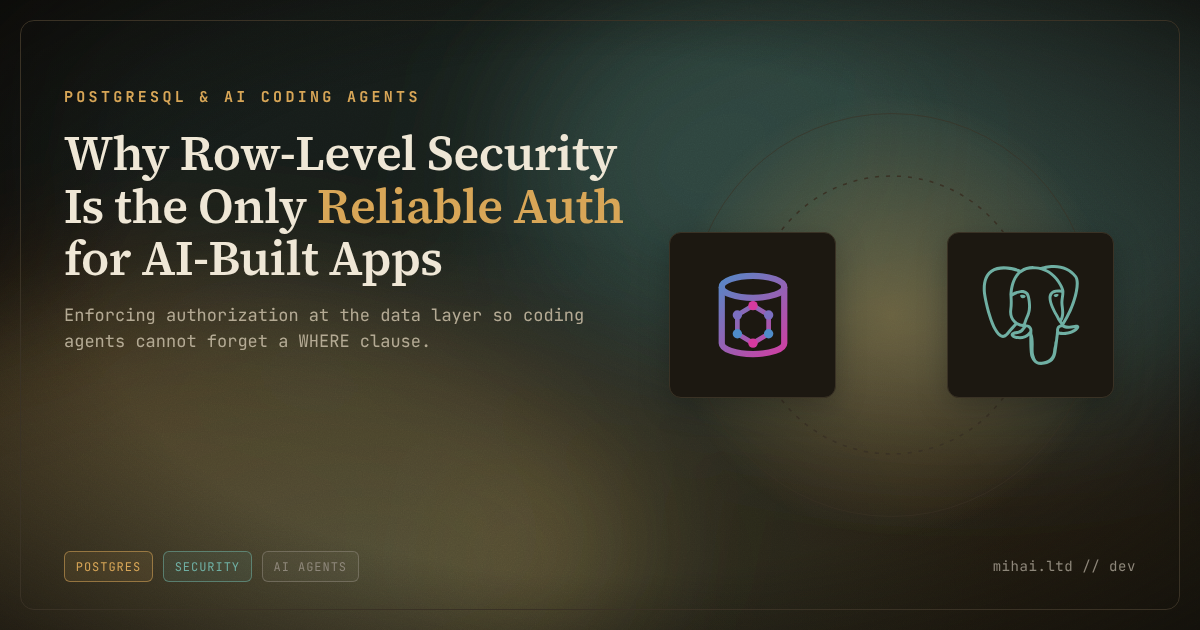
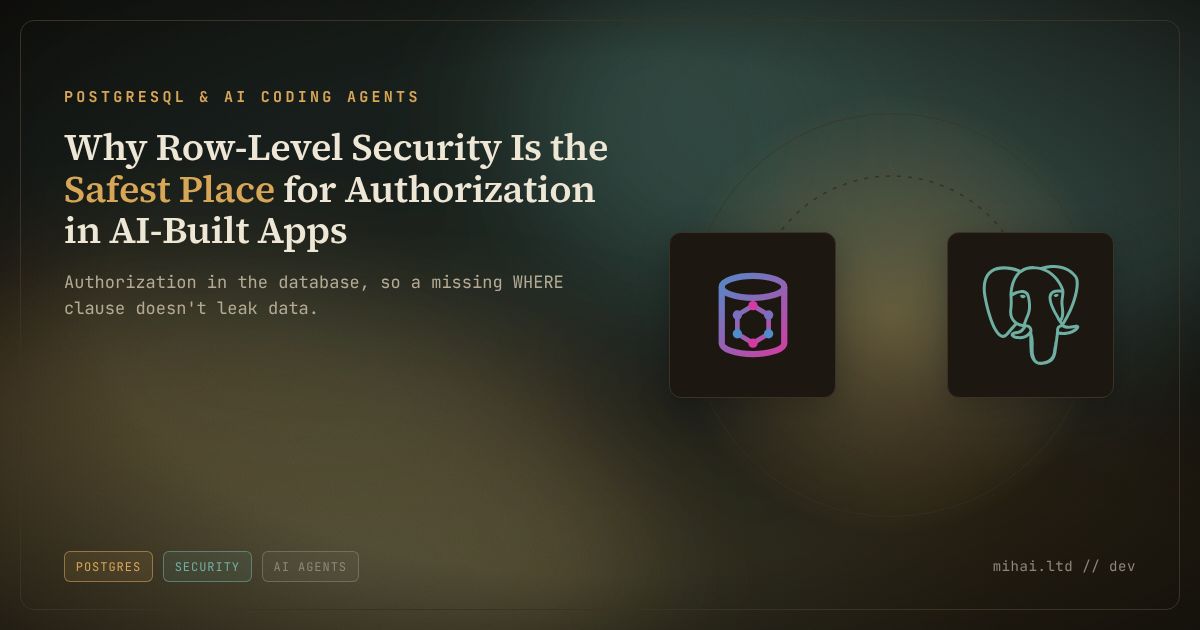
content(blog): editorial pass on graphpg, type-safety and RLS articles; retitle RLS article

Changed region(s): [[0.0308, 0.2111, 0.5242, 0.573]]

diff --git a/content/blog/building-graphpg-graphql-and-rest-from-postgres.md b/content/blog/building-graphpg-graphql-and-rest-from-postgres.md
@@ -9,7 +9,7 @@ cover_image: "/images/covers/building-graphpg-graphql-and-rest-from-postgres.png
 
 # Why GraphQL and REST Should Share One Engine: What I Learned Building graphpg
 
-_GraphQL or REST is the wrong question for most teams. You end up running both, and what matters is whether they come from one place or drift apart._
+_GraphQL or REST is the wrong question for many teams. You often end up running both, and what matters is whether they come from one place or drift apart._
 
 I build a lot of applications on PostgreSQL, and for years I have reached for tools that read the database and serve an API from it, instead of writing a data layer by hand. The largest schema I work with is a FHIR R5 data model (FHIR is the HL7 standard for exchanging healthcare records): 177 tables, composite types, JSON views and recursive functions. That schema is where [graphpg](https://mihailtd.github.io/graphpg/) started.
 
@@ -21,7 +21,7 @@ We built graphpg in-house as an open-source Rust engine (and adopted it on our [
 
 None of the ideas below are mine. Each comes from a tool I used and still respect.
 
-**[PostGraphile](https://postgraphile.org): the database is the schema.** Tables, foreign keys, functions and comments become a GraphQL schema with no resolver code. Authorization stays in PostgreSQL, through Row-Level Security (RLS, policies that filter which rows a role can see) driven by settings from the request. Version 5's Grafast planner made it fast as well as elegant. graphpg's integration tests still use a forum schema and queries adapted from PostGraphile's own test suite (MIT licensed, credited in the repository). "Does it answer like PostGraphile does?" was the first bar I wanted to clear.
+**[PostGraphile](https://postgraphile.org): the database is the schema.** Tables, foreign keys, functions and comments become a GraphQL schema with no resolver code. Authorization stays in PostgreSQL, through Row-Level Security (RLS, policies that filter which rows a role can see) driven by settings from the request. Version 5's Grafast planner made it fast as well as elegant. graphpg's integration tests still use a forum schema and queries adapted from PostGraphile's own test suite. "Does it answer like PostGraphile does?" was the first bar I wanted to clear.
 
 **[Hasura](https://hasura.io): the operational pieces.** Event triggers (webhooks fired when rows change), allow-lists of operations, depth and node limits, a console. Hasura showed that a generated API needs production features around it, not only a schema.
 
@@ -35,17 +35,17 @@ None of the ideas below are mine. Each comes from a tool I used and still respec
 
 ### 1. One engine behind both APIs
 
-GraphQL and REST in graphpg are two front ends to the same operation plan. A REST call such as `GET /rest/posts?filter[status][eq]=PUBLISHED&include=tags` and the equivalent GraphQL query become the same plan, so they share filters, ordering, keyset pagination, nested writes, safety limits, authorization and error codes. A filter operator added for one exists in the other the same day.
+GraphQL and REST in graphpg are two front ends to the same operation plan. A REST call such as `GET /rest/posts?filter[status][eq]=PUBLISHED&include=tags` and the equivalent GraphQL query become the same plan, so they share filters, ordering, keyset pagination, nested writes, safety limits, authorization and error codes. Add a filter operator and both APIs get it.
 
-I keep a [parity document](https://mihailtd.github.io/graphpg/docs/graphql-openapi-parity) of what each API knows about the database, and treat a gap as a bug. Put two separate tools in front of one database, say PostGraphile for GraphQL and PostgREST for REST, and they drift on exactly these details. One supports a filter the other lacks, an error comes back in a different shape, a limit holds on one side only.
+The two APIs aren't identical, and shouldn't be: some things only make sense in one of them. The [parity document](https://mihailtd.github.io/graphpg/docs/graphql-openapi-parity) lists where they differ and why. Put two separate tools in front of one database, say PostGraphile for GraphQL and PostgREST for REST, and the differences stop being choices. One supports a filter the other lacks, an error comes back in a different shape, a limit holds on one side only.
 
 ### 2. Every request is one SQL statement
 
 A nested GraphQL selection compiles to lateral joins and JSON aggregation, so a query for twenty posts with their authors and comments is one round trip, never one query per post (the N+1 problem). Connections page by keyset (`WHERE (created_at, id) < (…)`), an index seek on every page. Limits on page size, depth and cost are checked on the plan before any SQL runs.
 
-I measured it against PostgREST 16.4 on the same PostgreSQL 18.6 database, with the k6 scripts in [`benchmarks/rest`](https://github.com/mihailtd/graphpg/tree/main/benchmarks/rest) (one run, one machine, 2026-10-07). Reads ran at 1.4 to 3 times the throughput. Deep `offset` pagination came out about even, bulk updates by filter 2% behind, and single-row writes 1.1 to 1.4 times ahead:
+Against PostgREST on the same database ([benchmark scripts](https://github.com/mihailtd/graphpg/tree/main/benchmarks/rest)), reads ran at 1.4 to 3 times the throughput. Deep `offset` pagination came out about even, bulk updates by filter 2% behind, and single-row writes 1.1 to 1.4 times ahead:
 
-![Requests per second, graphpg 1.0.1 against PostgREST 16.4 on PostgreSQL 18.6: single row by key 74,031 against 24,606; keyset pagination 35,040 against 22,077; list of 20 rows 33,426 against 21,282; filtered list 32,501 against 19,894; 20 posts with author and comments 17,227 against 11,995 | wide](/images/blog/benchmark-throughput.png)
+![Requests per second, graphpg against PostgREST: single row by key 74,031 against 24,606; keyset pagination 35,040 against 22,077; list of 20 rows 33,426 against 21,282; filtered list 32,501 against 19,894; 20 posts with author and comments 17,227 against 11,995 | wide](/images/blog/benchmark-throughput.png)
 
 Treat that as one data point, not a ranking. Throughput depends far more on your schema, indexes and hardware than on the server, so run the benchmark on yours.
 
@@ -53,7 +53,7 @@ Treat that as one data point, not a ranking. Throughput depends far more on your
 
 This is the decision people question most. PostGraphile has a plugin system; Hasura has actions and remote schemas. graphpg has neither, on purpose ([decision record](https://mihailtd.github.io/graphpg/docs/extending)).
 
-A resolver running inside the server is not part of the statement: it adds a round trip per row unless it batches, it runs outside the transaction and outside RLS, and the limits estimated on the plan no longer bound the request. A plugin runtime is also a product of its own, with an API to keep stable through every upgrade.
+A resolver running inside the server sits outside the statement. It adds a round trip per row unless it batches, it runs outside the transaction and outside RLS, and the limits checked on the plan no longer cover the request. A plugin runtime is also a product of its own, with an API to keep stable through every upgrade.
 
 Behavior goes where it keeps those guarantees instead:
 
@@ -72,7 +72,7 @@ This is the piece that matters most for type safety, which I wrote about separat
 
 ### 5. A single binary, close to PostgreSQL's newest features
 
-graphpg ships as a static binary on a distroless image (about 27 MB, no shell, non-root, signed with Sigstore). It reads PostgreSQL 17 and 18 features into the schema without hand-written SQL: temporal keys (`WITHOUT OVERLAPS`), `RETURNING OLD`, `JSON_TABLE` views, `NOT ENFORCED` constraints.
+graphpg ships as a single static binary in a small container image with no shell. It reads PostgreSQL 17 and 18 features into the schema without hand-written SQL: temporal keys (`WITHOUT OVERLAPS`), `RETURNING OLD`, `JSON_TABLE` views, `NOT ENFORCED` constraints.
 
 ---
 
@@ -84,29 +84,29 @@ The GraphQL-or-REST debate assumes you pick one. In the projects I have worked o
 
 **REST is better at the edges of the system.** HTTP caching with `ETag`s, a `curl` command in a runbook, webhooks, CSV and NDJSON exports, partners who expect plain HTTP, services written in languages with weak GraphQL tooling. And now AI agents: many agent frameworks build their tools directly from an OpenAPI document, and a REST call with typed parameters maps neatly onto a tool call.
 
-The problem is never having both. It is having two implementations of the same rules: a GraphQL server with one idea of what "published" means and a REST layer with another, or a field hidden from one API and readable through the other. When both APIs come from one plan, coexisting is cheap. You get the GraphQL schema for the app and the OpenAPI document for everything else, and both answer to the same constraints and policies.
+Running both is fine. Running two implementations of the same rules is what hurts: a GraphQL server with one idea of what "published" means and a REST layer with another, or a field hidden from one API and readable through the other. When both APIs come from one plan, coexisting is cheap. You get the GraphQL schema for the app and the OpenAPI document for everything else, and both answer to the same constraints and policies.
 
 ---
 
 ## How I built it
 
-graphpg is about 55,000 lines of Rust, with about 47,000 lines of integration tests (575 test functions) that run against a real PostgreSQL 18. Every documented behavior has a test, which matters more than usual for a tool that generates an API from someone else's schema.
+Close to half of graphpg's code is integration tests that run against a real PostgreSQL. That matters more than usual for a tool that generates an API from someone else's schema.
 
-I built most of it with AI coding agents: 78 of the 97 commits in the public history were co-authored with Claude. That only worked because of the same discipline the tool itself encourages. The tests define what "done" means, the compiler rejects most mistakes before they run, and every change is small enough to review. When the agents got something wrong, a failing test caught it in the same session in most cases, not me a week later.
+I wrote most of it with AI coding agents. That only worked because of the same discipline the tool itself encourages. The tests define what "done" means, the compiler rejects most mistakes before they run, and every change is small enough to review. When the agents got something wrong, a failing test caught it in the same session in most cases, not me a week later.
 
-The FHIR schema did the exploratory testing. A crawler and a fuzzer (a tool that sends malformed inputs) generated requests against everything the 177-table schema exposes, and found real bugs: authorization claims, concurrent schema changes, failover between replicas. Those fixes shipped in 1.1.0, the first published release and the start of a stable API under semantic versioning.
+The FHIR schema did the exploratory testing. A crawler and a fuzzer sent requests at everything the 177-table schema exposes and found real bugs, in claim handling, concurrent schema changes and failover between replicas. Those fixes went into the first stable release.
 
 ---
 
 ## Where graphpg fits, and where it does not
 
-graphpg fits when you want a single high-performance service you configure rather than program, your authorization already lives in PostgreSQL (roles, grants, RLS), and you want GraphQL and REST to agree because both compile from one plan. It also fits distributed architectures: you can join remote databases and Parquet files through [foreign data wrappers](https://mihailtd.github.io/graphpg/docs/foreign-data), or compose graphpg as a subgraph with other services at the gateway using [Apollo Federation](https://mihailtd.github.io/graphpg/docs/federation-and-rbac).
+graphpg fits when you want one service you configure rather than program, your authorization already lives in PostgreSQL (roles, grants, RLS), and you want GraphQL and REST to agree because both compile from one plan. It also fits distributed architectures: you can join remote databases and Parquet files through [foreign data wrappers](https://mihailtd.github.io/graphpg/docs/foreign-data), or compose graphpg as a subgraph with other services at the gateway using [Apollo Federation](https://mihailtd.github.io/graphpg/docs/federation-and-rbac).
 
 Something else fits better when:
 
-- **You need a graphical admin console** to design tables and configure metadata via point-and-click tools: Hasura Console or Supabase Studio. graphpg is strictly code-first and declarative: schema changes go through SQL migrations, and API behavior is configured in version-controlled `graphpg.yaml` (with embedded GraphiQL and Scalar reference UIs for interactive exploration).
-- **You want to rewrite schema generation using in-process custom plugins** (running arbitrary Node.js or Python code inside the server's resolver loop): PostGraphile. graphpg keeps strict single-statement guarantees by moving custom logic into SQL functions, event triggers, or separate microservices composed at the gateway.
-- **You need cursor-based event streaming** across row audit logs rather than live queries: Hasura streaming. graphpg focuses on live query subscriptions (delivering the latest result over WebSocket, SSE, or multipart when data changes) and transaction outbox event triggers for webhook delivery.
+- **You want an admin console** to design tables and metadata by clicking: Hasura Console or Supabase Studio. In graphpg, schema changes are SQL migrations and API settings live in `graphpg.yaml`.
+- **You want plugins that change how the schema is generated**: PostGraphile. graphpg moves custom logic into SQL functions, event triggers or separate services, to keep one statement per request.
+- **You need to stream every change as an event**: Hasura streaming subscriptions. graphpg's subscriptions send the latest result when data changes, and its event triggers deliver webhooks.
 
 The [comparison page](https://mihailtd.github.io/graphpg/docs/comparison) on the graphpg documentation website lists each feature in detail, including where the other tools are broader.
 
@@ -114,9 +114,9 @@ The [comparison page](https://mihailtd.github.io/graphpg/docs/comparison) on the
 
 ## Key takeaways
 
-- **Most teams end up running GraphQL and REST, and two implementations of the same rules drift.** Solution: generate both from one plan, so filters, limits, errors and authorization stay identical.
+- **Many teams end up running GraphQL and REST, and two implementations of the same rules drift apart.** Solution: generate both from one plan, so they share filters, limits, errors and authorization.
 - **A generated API is only as fast as the round trips it makes.** Solution: compile each request into one SQL statement with lateral joins and keyset pagination, and check limits on the plan before running it.
 - **Plugins and custom resolvers break the guarantees that make a generated API safe.** Solution: put behavior in SQL functions, constraints, policies and event triggers, and compose anything else at the gateway.
 - **An API contract that is not checked in CI will drift.** Solution: commit the SDL and OpenAPI document, fail CI on drift, and refuse to start in production on a mismatched schema.
 
-graphpg is open source under MIT or Apache-2.0. Explore the [official documentation website](https://mihailtd.github.io/graphpg/) for guides on [AI agents](https://mihailtd.github.io/graphpg/docs/ai-agents), [type safety](https://mihailtd.github.io/graphpg/docs/type-safety), and a one-minute Docker quick start. The source code is available on [GitHub](https://github.com/mihailtd/graphpg).
+graphpg is open source under MIT or Apache-2.0. Explore the [official documentation website](https://mihailtd.github.io/graphpg/) for guides on [AI agents](https://mihailtd.github.io/graphpg/docs/ai-agents), [type safety](https://mihailtd.github.io/graphpg/docs/type-safety), and a Docker quick start. The source code is available on [GitHub](https://github.com/mihailtd/graphpg).

diff --git a/content/blog/row-level-security-ai-coding-agents.md b/content/blog/row-level-security-ai-coding-agents.md
@@ -1,17 +1,17 @@
 ---
-title: "Why Row-Level Security Is the Only Reliable Auth for AI-Built Apps"
-description: "Why AI coding agents routinely introduce data leaks in application-layer authorization, and how PostgreSQL Row-Level Security (RLS) turns authorization into an auditable data-layer barrier that no agent query can bypass."
+title: "Why Row-Level Security Is the Safest Place for Authorization in AI-Built Apps"
+description: "Why AI coding agents leave tenant filters out of queries, and how PostgreSQL Row-Level Security (RLS) moves authorization into the database, where one short policy covers every query and is easy to review."
 date: "2026-10-18"
 type: "blog_post"
 tags: ["postgresql", "security", "ai", "graphpg", "architecture"]
 cover_image: "/images/covers/row-level-security-ai-coding-agents.png"
 ---
 
-# Why Row-Level Security Is the Only Reliable Auth for AI-Built Apps
+# Why Row-Level Security Is the Safest Place for Authorization in AI-Built Apps
 
-_How many times has an AI coding agent written a flawless feature, only to leave out the tenant filter in the query?_
+_How many times has an AI coding agent written a feature that works, and left the tenant filter out of the query?_
 
-Ask an AI coding agent to add a new dashboard view or export endpoint. It reads your models, builds an expressive query, wires up the route, writes unit tests, and presents a clean diff. The tests pass and the feature works in development.
+Ask an AI coding agent to add a new dashboard view or export endpoint. It reads your models, writes the query, wires up the route, writes unit tests, and presents a clean diff. The tests pass and the feature works in development.
 
 Then you look closely at the database query:
 
@@ -26,13 +26,13 @@ The agent remembered to filter by status. It forgot to filter by `tenant_id` or 
 
 In a single-tenant development database with ten seed rows, that query behaves properly. In a multi-tenant staging or production cluster, it leaks every customer's medical records to whichever user called the endpoint.
 
-This is not a defect unique to language models; human developers make the same mistake under fatigue or tight deadlines. But coding agents make this error at machine speed across dozens of files. As a codebase expands from five tables to fifty, search recall degrades, and the probability of an agent missing a scoping filter in some obscure query approaches certainty.
+This is not a defect unique to language models; people make the same mistake under deadline. But an agent can repeat it across dozens of files in one session, and as a codebase grows from five tables to fifty, the odds that some query misses the scoping filter keep climbing.
 
-The solution is not prompting the agent to "remember security." The solution is moving the authorization boundary into the database engine itself using PostgreSQL Row-Level Security (RLS).
+Prompting the agent to "remember security" won't fix it. Moving authorization into the database with PostgreSQL Row-Level Security (RLS) will: the filter is applied whether the query asks for it or not.
 
 ---
 
-## The structural flaw of application-layer authorization
+## Why application-layer authorization breaks
 
 Most web applications enforce multi-tenancy and data ownership in the application layer:
 
@@ -40,11 +40,11 @@ Most web applications enforce multi-tenancy and data ownership in the applicatio
 2. The controller passes that context down through services, repositories, or resolvers.
 3. Every individual database query explicitly includes `WHERE tenant_id = context.tenant_id`.
 
-This model is structurally fragile because it requires **flawless discipline across every single read and write**.
+This model is fragile because every read and every write has to get it right.
 
 ![Application-layer authorization requires manual checks across fifty files; database Row-Level Security enforces authorization in one place](/images/blog/rls-vs-app-auth-poster.png)
 
-If an application exposes 80 database queries across its routes, resolvers, background workers, and search endpoints, authorization must succeed 80 times out of 80. A single missed `WHERE` clause in query 47 compromises the entire security posture of the product.
+If an application exposes 80 database queries across its routes, resolvers, background workers, and search endpoints, authorization must succeed 80 times out of 80. One missed `WHERE` clause in query 47 is enough to leak data.
 
 When AI coding agents author software, application-layer authorization breaks down for three specific reasons:
 
@@ -54,7 +54,7 @@ When an agent writes a new feature, it searches the repository for existing patt
 
 ### 2. Happy-path test generation
 
-Agents write tests for the code they just created. If an agent writes a query that lacks tenant scoping, its accompanying test seeds records for one user, queries the endpoint, and asserts that the records returned match what it seeded. The test suite passes with full line coverage while harboring a critical cross-tenant data leak.
+Agents write tests for the code they just created. If an agent writes a query that lacks tenant scoping, its accompanying test seeds records for one user, queries the endpoint, and asserts that the records returned match what it seeded. The tests pass with full line coverage, and the cross-tenant leak ships with them.
 
 ### 3. Imperative complexity vs declarative rules
 
@@ -93,7 +93,7 @@ If an AI coding agent writes an unfiltered query:
 SELECT id, name, department FROM documents;
 ```
 
-PostgreSQL does not execute an unfiltered table scan. It transparently rewrites the execution tree to:
+PostgreSQL adds the policies to the query, so it runs as if you had written:
 
 ```sql
 SELECT id, name, department FROM documents
@@ -101,15 +101,15 @@ WHERE tenant_id = current_setting('app.tenant_id', true)
   AND owner_id = current_setting('request.jwt.claim.sub', true);
 ```
 
-Even if the agent writes `DELETE FROM documents;` without a `WHERE` clause, the database deletes only the rows owned by the current session's subject in the current tenant. The agent cannot leak or destroy another customer's data because the database kernel prevents it.
+Even if the agent writes `DELETE FROM documents;` without a `WHERE` clause, the database deletes only the rows owned by the current session's subject in the current tenant. As long as the application connects as `authenticated`, no query the agent writes can reach another customer's rows.
 
 ---
 
 ## Auditing: one migration vs fifty files
 
-The greatest benefit for teams pairing with AI coding agents is **auditability**.
+For teams working with AI coding agents, the main gain is in review.
 
-When an agent submits a pull request with application-layer authorization, the human reviewer must inspect every changed route, controller, ORM invocation, and SQL builder across twenty files, verifying that:
+When an agent submits a pull request with application-layer authorization, the human reviewer must inspect every changed route, controller, ORM invocation, and SQL builder across every changed file, checking that:
 
 - The tenant context extracted in middleware reached the query.
 - The query builder joined the correct scoping table.
@@ -128,9 +128,9 @@ CREATE POLICY team_access_policy ON medical_records
   );
 ```
 
-The reviewer reads five lines of declarative SQL. If those five lines match your security specification, **every query the agent writes now or six months from now will adhere to that policy**.
+The reviewer reads five lines of SQL. If they match your security specification, **every query the agent writes, now or six months from now, follows that policy**.
 
-Language models also write declarative SQL policies with much higher precision than they maintain across dozens of imperative JavaScript or Python controller guards. Writing a constraint or a policy is a compact, self-contained task with decades of training data and formal relational logic behind it.
+In my experience, models also get a policy right more often than they keep dozens of controller guards consistent. A policy is short and self-contained; the guards are spread across files the agent may never open.
 
 ---
 
@@ -160,11 +160,11 @@ SELECT
   set_config('app.tenant_id', 'tenant-1', true);
 ```
 
-The third argument (`is_local = true`) instructs PostgreSQL to scope these settings strictly to the current transaction. When the transaction commits or rolls back, PostgreSQL discards the settings automatically. Connection pool poisoning is impossible because no session setting leaks into later pooled connections.
+The third argument (`is_local = true`) scopes these settings to the current transaction, and PostgreSQL discards them on commit or rollback. A pooled connection never carries one request's claims into the next.
 
-### Real-world test validation
+### What the tests check
 
-In graphpg's test suite ([`crates/graphpg/tests/rls_auth.rs`](https://github.com/mihailtd/graphpg/blob/main/crates/graphpg/tests/rls_auth.rs)), we verify this exact behavior against a live PostgreSQL 18 instance with two isolated tenants and medical departments:
+In graphpg's test suite ([`crates/graphpg/tests/rls_auth.rs`](https://github.com/mihailtd/graphpg/blob/main/crates/graphpg/tests/rls_auth.rs)), we check this against a real PostgreSQL database with two tenants and two departments:
 
 ```rust
 // A token for Alice in cardiology, tenant-1
@@ -197,20 +197,20 @@ Even though the GraphQL query requested all documents without filters:
 - Evan's cardiology documents in `acme-2` remain hidden.
 - Unauthenticated requests run as `anon` and see only public documents.
 
-The agent authored a query that looked like a security hole, and the database answered with complete tenant isolation.
+The query looked like a security hole, and the database returned only Alice's rows.
 
 ---
 
-## Defensive architecture: RLS plus end-to-end type safety
+## RLS and end-to-end type safety
 
-Row-Level Security solves authorization at the data boundary. In an earlier article, we covered how [End-to-End Type Safety](/blog/end-to-end-type-safety-ai-coding-agents) solves schema drift at the compile-time boundary.
+Row-Level Security covers who can see which rows. In [How End-to-End Type Safety Turns "Change It Everywhere" Into a List Your AI Agent Can Finish](/blog/end-to-end-type-safety-ai-coding-agents) I wrote about the other half: what happens when an agent changes the shape of the data.
 
-When you combine both patterns, you create a dual-barrier architecture for agentic development:
+The two checks catch different mistakes:
 
-1. **Compile-time barrier (Types):** PostgreSQL catalog changes regenerate GraphQL SDL and OpenAPI 3.1 contracts via graphpg. Code generators convert contracts into TypeScript types. If an agent changes a column name or omits a required input, `tsc` fails before the code ever runs.
-2. **Runtime barrier (RLS):** When the agent's code runs, PostgreSQL enforces tenant boundaries, ownership rules, and access control policies directly in the database kernel. If an agent generates an unfiltered query, the database limits the result set to the user's permitted rows.
+1. **Types, at build time.** A schema change regenerates the GraphQL SDL and the OpenAPI document, and from them the TypeScript types. If an agent renames a column or leaves out a required input, `tsc` fails before the code runs.
+2. **Policies, at run time.** When the code runs, PostgreSQL applies the tenant and ownership rules. An unfiltered query returns only the rows the user may see.
 
-Neither barrier requires trust in the model's memory, attention span, or prompt compliance.
+Neither depends on the agent remembering anything.
 
 ---
 
@@ -220,7 +220,7 @@ If you adopt RLS for agent-assisted projects, keep three operational practices i
 
 ### 1. Separate table owners from application roles
 
-PostgreSQL superusers and table owners bypass Row-Level Security by default. Ensure your application connects as an unprivileged login role (such as `authenticator`) that switches to `authenticated` or `anon`. Never run application queries as the database owner or superuser, or apply `ALTER TABLE ... FORCE ROW LEVEL SECURITY` if the owner must connect directly.
+PostgreSQL superusers and table owners bypass Row-Level Security by default. Make sure your application connects as an unprivileged login role (such as `authenticator`) that switches to `authenticated` or `anon`. Never run application queries as the database owner or superuser, or apply `ALTER TABLE ... FORCE ROW LEVEL SECURITY` if the owner must connect directly.
 
 ### 2. Combine PERMISSIVE and RESTRICTIVE policies
 
@@ -236,19 +236,19 @@ CREATE POLICY tenant_barrier ON documents
   USING (tenant_id = current_setting('app.tenant_id', true));
 ```
 
-PostgreSQL requires all `RESTRICTIVE` policies to pass alongside at least one `PERMISSIVE` policy. This prevents an overly broad permission policy from ever leaking records across tenant boundaries.
+A row is visible only when every `RESTRICTIVE` policy passes and at least one `PERMISSIVE` policy does. A permissive rule written too broadly still can't open rows in another tenant.
 
 ### 3. Index your policy columns
 
-Row-Level Security injects policy predicates into every table scan. If your policy checks `tenant_id` and `owner_id`, composite indexes covering `(tenant_id, owner_id)` ensure policy evaluation remains sub-millisecond even on tables with millions of rows.
+Row-Level Security adds the policy conditions to every query on the table. If your policy checks `tenant_id` and `owner_id`, composite indexes covering `(tenant_id, owner_id)` keep the added predicate an index lookup instead of a scan.
 
 ---
 
 ## Key takeaways
 
-- **Application-layer authorization is too fragile for AI coding agents.** Agents authoring dozens of queries will eventually miss a scoping filter or spread an unvalidated input.
-- **PostgreSQL Row-Level Security moves the boundary to the database kernel.** Unfiltered queries written by agents are transparently rewritten to include tenant and ownership rules.
-- **Reviewers audit declarative SQL policies with predictable effort.** Human reviewers inspect a five-line SQL policy once, rather than verifying fifty scattered controllers across pull requests.
-- **graphpg provides zero-drift RLS integration.** Session variables set per-transaction from verified JWT claims ensure seamless RLS enforcement across both GraphQL and REST.
+- **Application-layer authorization is too fragile for AI coding agents.** An agent writing dozens of queries will sooner or later miss a scoping filter.
+- **Row-Level Security moves the boundary into PostgreSQL.** An unfiltered query from an agent still returns only the rows the policies allow.
+- **Reviewers check one short policy instead of fifty controllers.** The policy applies to every query, including the ones written next month.
+- **graphpg sets the session from verified JWT claims on every request.** The same policies apply to GraphQL and REST.
 
 To learn more about configuring authentication and session settings in graphpg, explore the [Authentication and RLS Guide](https://mihailtd.github.io/graphpg/docs/authentication) and the [AI Agents Guide](https://mihailtd.github.io/graphpg/docs/ai-agents) on the [graphpg documentation website](https://mihailtd.github.io/graphpg/).

diff --git a/content/blog/end-to-end-type-safety-ai-coding-agents.md b/content/blog/end-to-end-type-safety-ai-coding-agents.md
@@ -11,13 +11,13 @@ cover_image: "/images/covers/end-to-end-type-safety-ai-coding-agents.png"
 
 _How many times have you asked a coding agent to "rename this everywhere", and found the one place it missed a day later?_
 
-How many times have you asked a coding agent to "change this everywhere"? Rename a column, drop a field nobody uses, split `name` into `first_name` and `last_name`. The agent searches the repository, edits fourteen files, runs the tests, and tells you it is done. Then a screen nobody opened during the session breaks in staging, because the field was read through a string in a query, or a spread in a component, or a file the search pattern did not match.
+You ask a coding agent to change something everywhere: rename a column, drop a field nobody uses, split `name` into `first_name` and `last_name`. The agent searches the repository, edits fourteen files, runs the tests, and tells you it is done. Then a screen nobody opened during the session breaks in staging, because the field was read through a string in a query, or a spread in a component, or a file the search pattern did not match.
 
-In most cases the model is not the problem. Search is. "Find every use of `family`" is a recall problem, and on a large codebase text search has poor recall: the same word means different things in different files, the same field is spelled three ways across layers (`family`, `familyName`, `FAMILY_ASC`), and some uses are only visible at run time. A person misses places for the same reasons; an agent just does it faster and with more confidence.
+The problem is more often search than the model. "Find every use of `family`" is a recall problem, and on a large codebase text search has poor recall: the same word means different things in different files, the same field is spelled three ways across layers (`family`, `familyName`, `FAMILY_ASC`), and some uses are only visible at run time. A person misses places for the same reasons; an agent just does it faster and with more confidence.
 
-The fix is not a better search. Make every place that uses the field fail to compile once the field changes, so the type checker produces the list of places, and the agent works through the list instead of guessing where to look.
+A better search won't fix that. Instead, make every place that uses the field fail to compile once the field changes, so the type checker produces the list of places, and the agent works through the list instead of guessing where to look.
 
-That is what end-to-end type safety means in practice, and it matters more now that agents write a large share of the code.
+That is what end-to-end type safety means in practice, and it matters more when an agent makes the change.
 
 ---
 
@@ -30,11 +30,11 @@ End-to-end type safety means **one source of truth for the shape of your data, a
 In a typical stack that chain has four links:
 
 1. **The schema**, in the database (tables, columns, constraints).
-2. **The API contract**, a GraphQL SDL (Schema Definition Language, the text form of a GraphQL schema) and an OpenAPI 3.1 document for REST.
+2. **The API contract**, a GraphQL SDL and an OpenAPI 3.1 document for REST.
 3. **The client types**, generated TypeScript for every query, request and response.
 4. **The type checker**, `tsc` and your editor, which compare every use against those types.
 
-Most projects have links 3 and 4. The weak spot is link 2: a contract written by hand, or generated from server code that someone else wrote by hand, drifts from the database without anyone noticing. When the contract is generated _from_ the database, a migration is enough to update every type downstream.
+Many projects already have links 3 and 4. The weak spot is link 2: a contract written by hand, or generated from server code that someone else wrote by hand, drifts from the database without anyone noticing. When the contract is generated _from_ the database, a migration is enough to update every type downstream.
 
 ---
 
@@ -44,9 +44,9 @@ If the database is the source of truth, the schema language is SQL, or a thin la
 
 **SQL is declarative and compact.** A table states its columns, keys, relations and rules in a few lines, and says _what_ is allowed instead of _how_ to check it. `CHECK (length(body) BETWEEN 1 AND 2000)` or `REFERENCES authors (id)` is one line, and PostgreSQL enforces it on every write, from every client, including the ones an agent writes next month. The same rules spread across validation functions, resolvers and controllers take hundreds of lines, each one a place to get wrong.
 
-**Models write SQL well.** SQL has decades of public examples, documentation and answered questions behind it, so models have seen a lot of it. In my experience a schema migration is one of the more reliable things an agent produces, much more reliable than a hand-rolled data layer with the same rules.
+**Models write SQL well.** SQL has decades of public examples, documentation and answered questions behind it, so models have seen a lot of it. In my experience a schema migration is one of the more reliable things an agent produces, more reliable than a hand-rolled data layer with the same rules.
 
-**It is auditable.** Every schema change is a migration: a file a person reviews in a pull request before it runs. With [Drizzle](https://orm.drizzle.team) (a TypeScript ORM, Object-Relational Mapper, whose schema is plain TypeScript), the reviewer reads a small diff of the schema file, and `drizzle-kit generate` writes the SQL migration from it:
+**It is auditable.** Every schema change is a migration: a file a person reviews in a pull request before it runs. With [Drizzle](https://orm.drizzle.team), a TypeScript ORM, the reviewer reads a small diff of the schema file, and `drizzle-kit generate` writes the SQL migration from it:
 
 ```diff
  export const patients = pgTable("patients", {
@@ -60,7 +60,7 @@ If the database is the source of truth, the schema language is SQL, or a thin la
 ALTER TABLE "patients" RENAME COLUMN "family" TO "family_name";
 ```
 
-The agent proposes, a human reads two lines, and the database applies them in a transaction. Compare that with reviewing an agent's changes across a REST controller, a GraphQL resolver, two DTOs (Data Transfer Objects) and a mapper, all of which have to agree.
+The agent proposes, a human reads two lines, and the database applies them in a transaction. Compare that with reviewing an agent's changes across a REST controller, a GraphQL resolver, two DTOs and a mapper, all of which have to agree.
 
 ---
 
@@ -71,7 +71,7 @@ The next link turns the schema into the API contract. A handful of tools read Po
 - `schema.graphql`, the GraphQL SDL, with every type, field, filter, order option and error code.
 - `openapi.json`, an OpenAPI 3.1 document, with every path, parameter, body and response, and `CHECK` constraints as JSON Schema keywords (`minLength`, `maximum`, `pattern`).
 
-In development mode it watches the database for schema changes (DDL, Data Definition Language: `CREATE`, `ALTER`, `DROP`) and rewrites both files after each one. The files go in the repository, so a schema change and the contract it produces arrive in the same pull request.
+In development mode it watches the database for schema changes and rewrites both files after each one. The files go in the repository, so a schema change and the contract it produces arrive in the same pull request.
 
 From there, standard tools do the rest:
 
@@ -98,17 +98,17 @@ If your whole stack is TypeScript, tRPC or a Zod schema shared between server an
 
 ## What a rename looks like on a 177-table schema
 
-I wanted real numbers rather than a demo on three tables, so I ran the rename above on the largest schema I have: a FHIR R5 data model (FHIR is the HL7 standard for exchanging healthcare records) with 177 tables, modelled in Drizzle. Its SDL is 100,534 lines (4.3 MB) and its OpenAPI document 38 MB. The client was a small TypeScript project with one GraphQL query and one REST call reading `patients.family`. Everything ran on one workstation with graphpg 1.1.0 in development mode.
+I wanted real numbers rather than a demo on three tables, so I ran the rename above on the largest schema I have: a FHIR R5 data model (FHIR is the HL7 standard for exchanging healthcare records) with 177 tables, modelled in Drizzle. Its GraphQL schema runs to about 100,000 lines and its OpenAPI document to 38 MB. The client was a small TypeScript project with one GraphQL query and one REST call reading `patients.family`.
 
-| Step                                                | Time         |
-| :-------------------------------------------------- | :----------- |
-| Migration committed → `schema.graphql` rewritten    | 0.63 s       |
-| Migration committed → `openapi.json` rewritten      | 0.98 s       |
-| GraphQL Code Generator validates the queries        | 4.8 s        |
-| openapi-typescript writes the types (470,089 lines) | 5.3 to 6.1 s |
-| `tsc` (TypeScript 7) checks the project             | 0.3 s        |
+| Step                                             | Time         |
+| :----------------------------------------------- | :----------- |
+| Migration committed → `schema.graphql` rewritten | 0.63 s       |
+| Migration committed → `openapi.json` rewritten   | 0.98 s       |
+| GraphQL Code Generator validates the queries     | 4.8 s        |
+| openapi-typescript writes the types              | 5.3 to 6.1 s |
+| `tsc` checks the project                         | 0.3 s        |
 
-From `ALTER TABLE` to errors in the editor took under ten seconds, and almost all of it was code generation on an unusually large contract. A schema of twenty tables generates in a fraction of that.
+From `ALTER TABLE` to errors in the editor took under ten seconds, and almost all of it was code generation on an unusually large contract. Most schemas are far smaller.
 
 The GraphQL side failed at code generation, with the replacement in the message:
 
@@ -164,7 +164,7 @@ Commit the generated `schema.graphql` and `openapi.json`. In CI, regenerate them
 
 ## Where the chain stops
 
-Types cover what crosses the API. In the same experiment, one thing broke that no type caught, and it is worth knowing about.
+Types cover what crosses the API. In the same experiment, one thing broke that no type caught.
 
 The FHIR schema has a computed column, `Patient.fullName`, backed by a SQL function that reads `p.family`. After the rename its GraphQL type was still `String`, and every request that selected it failed at run time. The function was written the common way, with its body as a string:
 
@@ -183,7 +183,7 @@ CREATE FUNCTION patient_full_name(p patients) RETURNS text
   RETURN coalesce(p.family_name, '') || ', ' || coalesce(p.given, '');
 ```
 
-With that body, a rename rewrites the function on its own (I checked: it became `(p).surname` after a second rename), and dropping the column fails with `cannot drop column ... because other objects depend on it`. PL/pgSQL functions are always stored as text, so they need tests that run after each migration.
+With that body, a rename updates the function on its own, and dropping the column fails with `cannot drop column ... because other objects depend on it`. PL/pgSQL functions are always stored as text, so they need tests that run after each migration.
 
 Two other gaps are worth keeping in mind:
 
